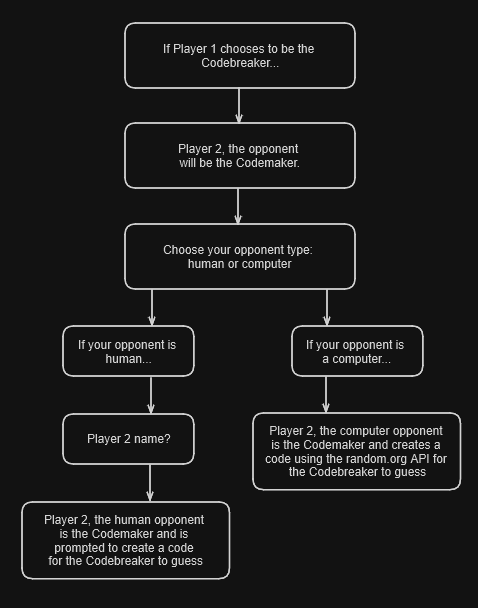
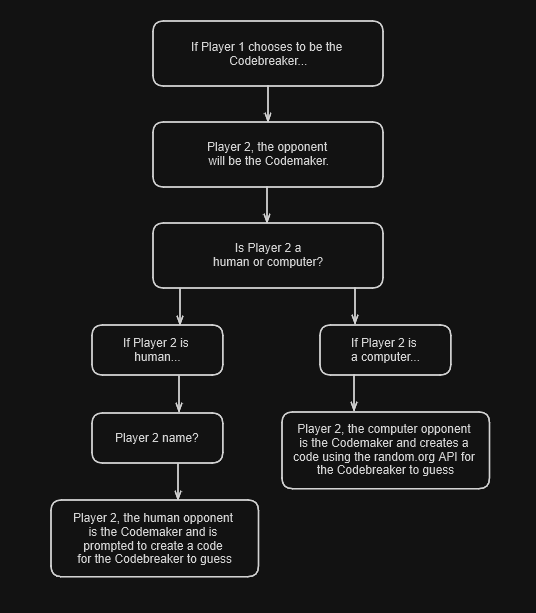
Updated readme. Added game_setup_3 diagram and fixed game_setup_2 and main_game_loop diagrams.

Changed region(s): [[0.0293, 0.3438, 0.9665, 0.9688], [0.2343, 0.0312, 0.7615, 0.1562], [0.2343, 0.1875, 0.7615, 0.3125]]

diff --git a/readme.md b/readme.md
@@ -67,12 +67,13 @@ If the user chooses to be the Codebreaker then:
 
 4. Prompt the user for their opponent type - human or computer.
 
-5. A. If the opponent is a human, then prompt the human for their name.
-   B. If the opponent is the computer, then a code is generated using the random.org API. Then go to step 7.
+5A. If the opponent is a human, then prompt the human for their name.
 
-6. Prompts the human opponent to create a code for the Codebreaker to guess. Then go to step 7.
+5B. If the opponent is the computer, then a code is generated using the random.org API. Then go to step 7.
 
-_Diagram 2_ below, outlines this portion of the game setup.
+6. Prompt the human opponent to create a code for the Codebreaker to guess. Then go to step 7.
+
+_Diagram 2_ below, outlines this portion of the game setup phase.
 
 <div style="text-align: center;">
     <img
@@ -85,19 +86,28 @@ From step 3, if the user chooses to be the Codemaker then:
 
 4. Prompt the user for their opponent type - human or computer.
 
-5A. If their opponent is human, it will prompt them for their opponent's name.
+5A. If the opponent is human, it will prompt them for their opponent's name.
 
-5B. If their opponent is the computer,
+5B. If the opponent is the computer, then prompt Player 1, the human Codemaker to create a code for the computer Codebreaker to guess. Then go to step 7.
 
-6. Prompts the human codemaker to create a code for the codebreaker to guess
+6. Prompt Player 1, the human Codemaker to create a code for the human Codebreaker to guess. Then go to step 7.
+
+_Diagram 3_ below, outlines this portion of the game setup phase.
+
+<div style="text-align: center;">
+    <img
+    src="https://github.com/ivanfslee/mastermind/raw/main/assets/game_setup_3.png"
+    alt="game setup prompts 3">
+    <p>Diagram 3 - game setup prompts 3</p>
+</div>
 
 **Main game loop**
 
-7. Prompts the codebreaker to guess the codemaker's code
+7. Prompt the Codebreaker to guess the Codemaker's code
 
-8. The codebreaker's guess is checked against the codemaker's code and feedback is generated and displayed to the codebreaker.
+8. The Codebreaker's guess is checked against the Codemaker's code and feedback is generated and displayed to the Codebreaker.
 
-9. If the codebreaker's guess matches the codemaker's code, then the game is over. If the guess doesn't match the code and the codebreaker still has guesses left, then go back to step 7. Otherwise, if the codebreaker doesn't have any guesses left, then the game is over.
+9. If the Codebreaker's guess matches the Codemaker's code, then the game is over. If the guess doesn't match the code and the Codebreaker still has guesses left, then go back to step 7. Otherwise, if the Codebreaker doesn't have any guesses left, then the game is over.
 
 _Diagram 4_ below outlines the main game loop.
 
